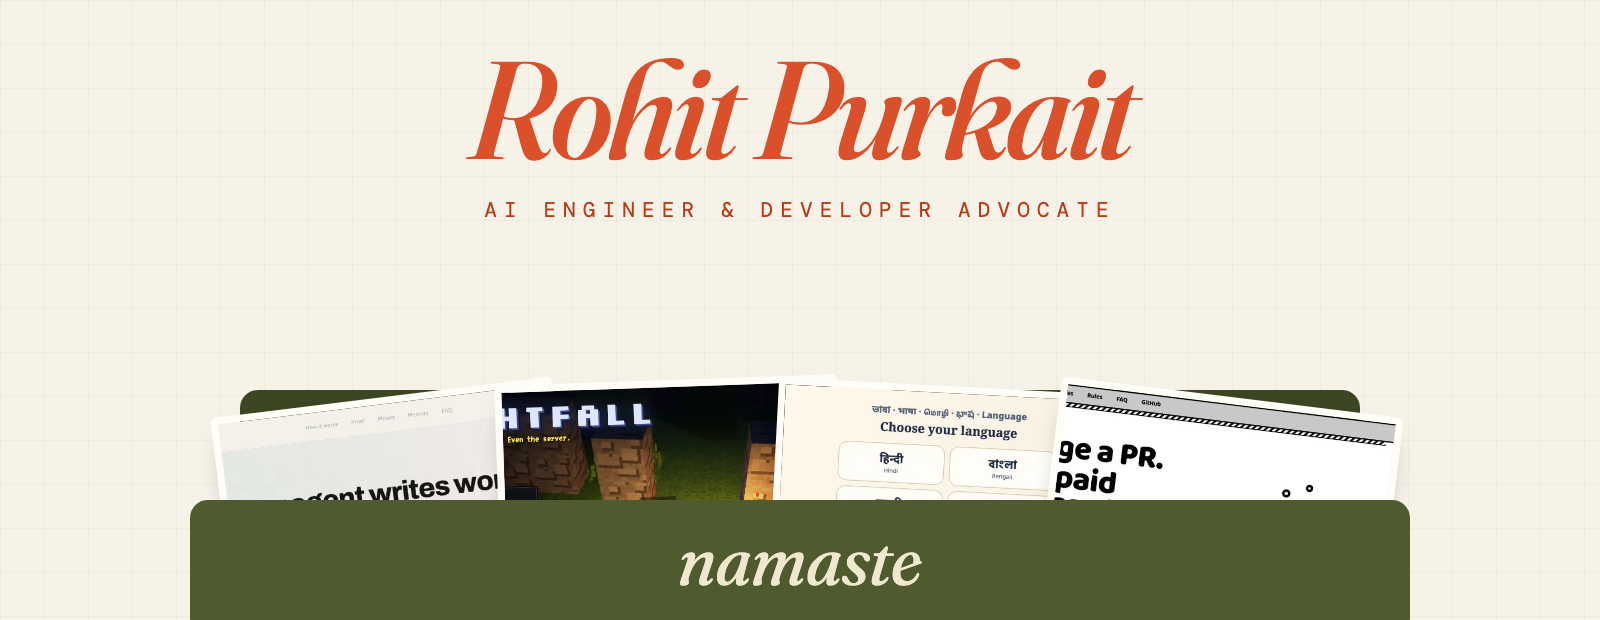
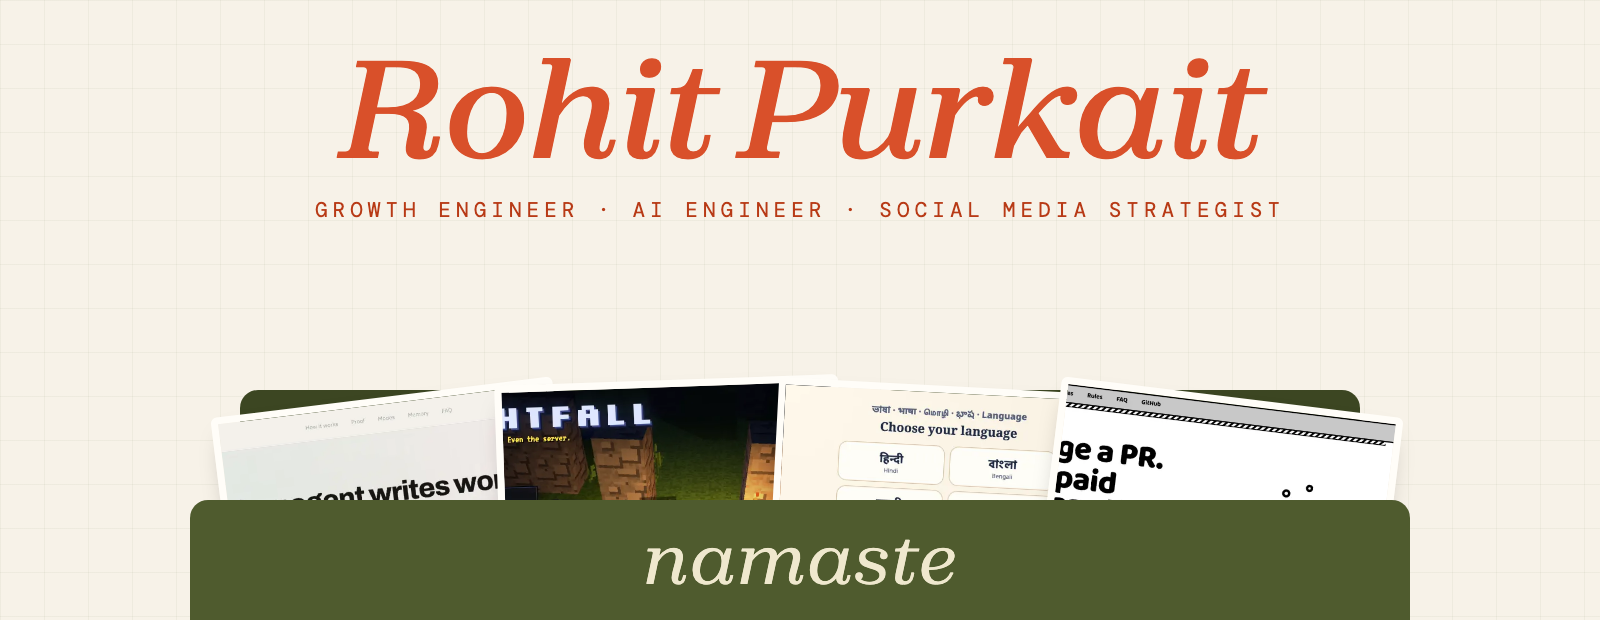
docs: lead profile with growth and hackathon wins

Changed region(s): [[0.2188, 0.0919, 0.8125, 0.2758], [0.1875, 0.3065, 0.7812, 0.3677], [0.4062, 0.8581, 0.5938, 0.95]]

diff --git a/assets/banner.png.html b/assets/banner.png.html
@@ -1,7 +1,7 @@
-<style>@font-face{font-family:F;font-style:italic;src:url(file:///Users/rohitpurkait/Work/portfolio/assets/fonts/fraunces-italic-300-700.woff2);font-weight:300 700}@font-face{font-family:M;src:url(file:///Users/rohitpurkait/Work/portfolio/assets/fonts/dmmono-normal-400.woff2)}*{margin:0}
+<style>@font-face{font-family:F;font-style:italic;src:url(file:///Users/rohitpurkait/Work/portfolio/assets/fonts/zodiak-italic-var.woff2);font-weight:100 900}@font-face{font-family:M;src:url(file:///Users/rohitpurkait/Work/portfolio/assets/fonts/dmmono-normal-400.woff2)}*{margin:0}
 body{width:1600px;height:620px;background:#F7F2E8;background-image:linear-gradient(rgba(79,91,46,.05) 1px,transparent 1px),linear-gradient(90deg,rgba(79,91,46,.05) 1px,transparent 1px);background-size:44px 44px;position:relative;overflow:hidden;text-align:center}
-h1{font:italic 500 138px/1 F;color:#D9502A;letter-spacing:-.03em;padding-top:40px;font-variation-settings:'opsz' 144,'SOFT' 100}p{font:21px M;letter-spacing:.34em;color:#B83A16;margin-top:18px}</style>
-<h1>Rohit Purkait</h1><p>AI ENGINEER &amp; DEVELOPER ADVOCATE</p>
+h1{font:italic 500 138px/1 F;color:#D9502A;letter-spacing:-.03em;padding-top:40px;}p{font:21px M;letter-spacing:.24em;color:#B83A16;margin-top:18px}</style>
+<h1>Rohit Purkait</h1><p>GROWTH ENGINEER · AI ENGINEER · SOCIAL MEDIA STRATEGIST</p>
 <div style="position:absolute;left:240px;right:240px;bottom:0;height:230px;background:#3C4622;border-radius:18px 18px 0 0"></div>
 <img src="file:///Users/rohitpurkait/Work/portfolio/assets/shots/tastemaker.webp" style="position:absolute;left:230px;bottom:-120px;width:330px;height:330px;object-fit:cover;object-position:50% 0;border:7px solid #FFFDF8;border-radius:6px;transform:rotate(-7deg);box-shadow:0 12px 28px -14px rgba(0,0,0,.4)"><img src="file:///Users/rohitpurkait/Work/portfolio/assets/shots/nightfall.webp" style="position:absolute;left:500px;bottom:-104px;width:330px;height:330px;object-fit:cover;object-position:50% 0;border:7px solid #FFFDF8;border-radius:6px;transform:rotate(-2deg);box-shadow:0 12px 28px -14px rgba(0,0,0,.4)"><img src="file:///Users/rohitpurkait/Work/portfolio/assets/shots/chithi.webp" style="position:absolute;left:770px;bottom:-110px;width:330px;height:330px;object-fit:cover;object-position:50% 0;border:7px solid #FFFDF8;border-radius:6px;transform:rotate(3deg);box-shadow:0 12px 28px -14px rgba(0,0,0,.4)"><img src="file:///Users/rohitpurkait/Work/portfolio/assets/shots/mergepay.webp" style="position:absolute;left:1040px;bottom:-120px;width:330px;height:330px;object-fit:cover;object-position:50% 0;border:7px solid #FFFDF8;border-radius:6px;transform:rotate(7deg);box-shadow:0 12px 28px -14px rgba(0,0,0,.4)">
 <div style="position:absolute;left:190px;right:190px;bottom:0;height:120px;background:#4F5B2E;border-radius:18px 18px 0 0;color:#EFE8CE;font:italic 400 70px/120px F">namaste</div>

diff --git a/README.md b/README.md
@@ -1,4 +1,4 @@
-<a href="https://www.codeswithroh.online"><img src="assets/banner.png" alt="Rohit Purkait, AI engineer and developer advocate"></a>
+<a href="https://www.codeswithroh.online"><img src="assets/banner.png" alt="Rohit Purkait, growth engineer, AI engineer and social media strategist"></a>
 
 <p align="center">
   <a href="https://www.codeswithroh.online"><b>codeswithroh.online</b></a> ·
@@ -8,11 +8,11 @@
   <a href="mailto:rohitpurkait001@gmail.com">Email</a>
 </p>
 
-I build agent tools, on-device AI and onchain apps, then show other developers how they work. By day I'm a Developer Relations Engineer at BlokCapital.
+I build the product, then I get it seen. Growth engineer, AI engineer and social media strategist with 20+ hackathon wins. By day I'm a Developer Relations Engineer at BlokCapital.
 
-| **509** | **65** | **18** | **3** |
+| **20+** | **509** | **65** | **18** |
 |:---:|:---:|:---:|:---:|
-| stars on [Tastemaker](https://github.com/codeswithroh/tastemaker) | public repos in 2026 | chains shipped on | hackathon awards |
+| hackathons won | stars on [Tastemaker](https://github.com/codeswithroh/tastemaker) | public repos in 2026 | chains shipped on |
 
 ## What I believe
 
@@ -127,7 +127,15 @@ The best AI for most people also runs on their own device, in their own language
 
 </details>
 
+## Growth
+
+- [Tastemaker](https://github.com/codeswithroh/tastemaker): 0 to 509 stars in under four months
+- [cofoundr](https://www.codeswithroh.online/projects/cofoundr): 500+ organic users with zero paid acquisition
+- [Six videos](https://www.codeswithroh.online/proof-of-work) scripted, filmed, edited and posted solo
+
 ## Recognition
+
+20+ hackathons won, including:
 
 - **EthGlobal 2025:** winner
 - **PL_Genesis (Protocol Labs):** winner with [Yoldr](https://www.codeswithroh.online/projects/yoldr)
@@ -136,6 +144,6 @@ The best AI for most people also runs on their own device, in their own language
 
 ## Stack
 
-TypeScript · Python · Solidity · Cadence · Rust · Next.js · NestJS · FastAPI · Claude · MCP · Gemma · viem · Foundry
+Growth engineering · Social strategy · Short video · SEO · TypeScript · Python · Solidity · Cadence · Rust · Next.js · NestJS · FastAPI · Claude · MCP · Gemma · viem · Foundry
 
-Building something with AI or crypto? [Say hi](mailto:rohitpurkait001@gmail.com).
+Need someone who builds it and sells it? [Say hi](mailto:rohitpurkait001@gmail.com).
